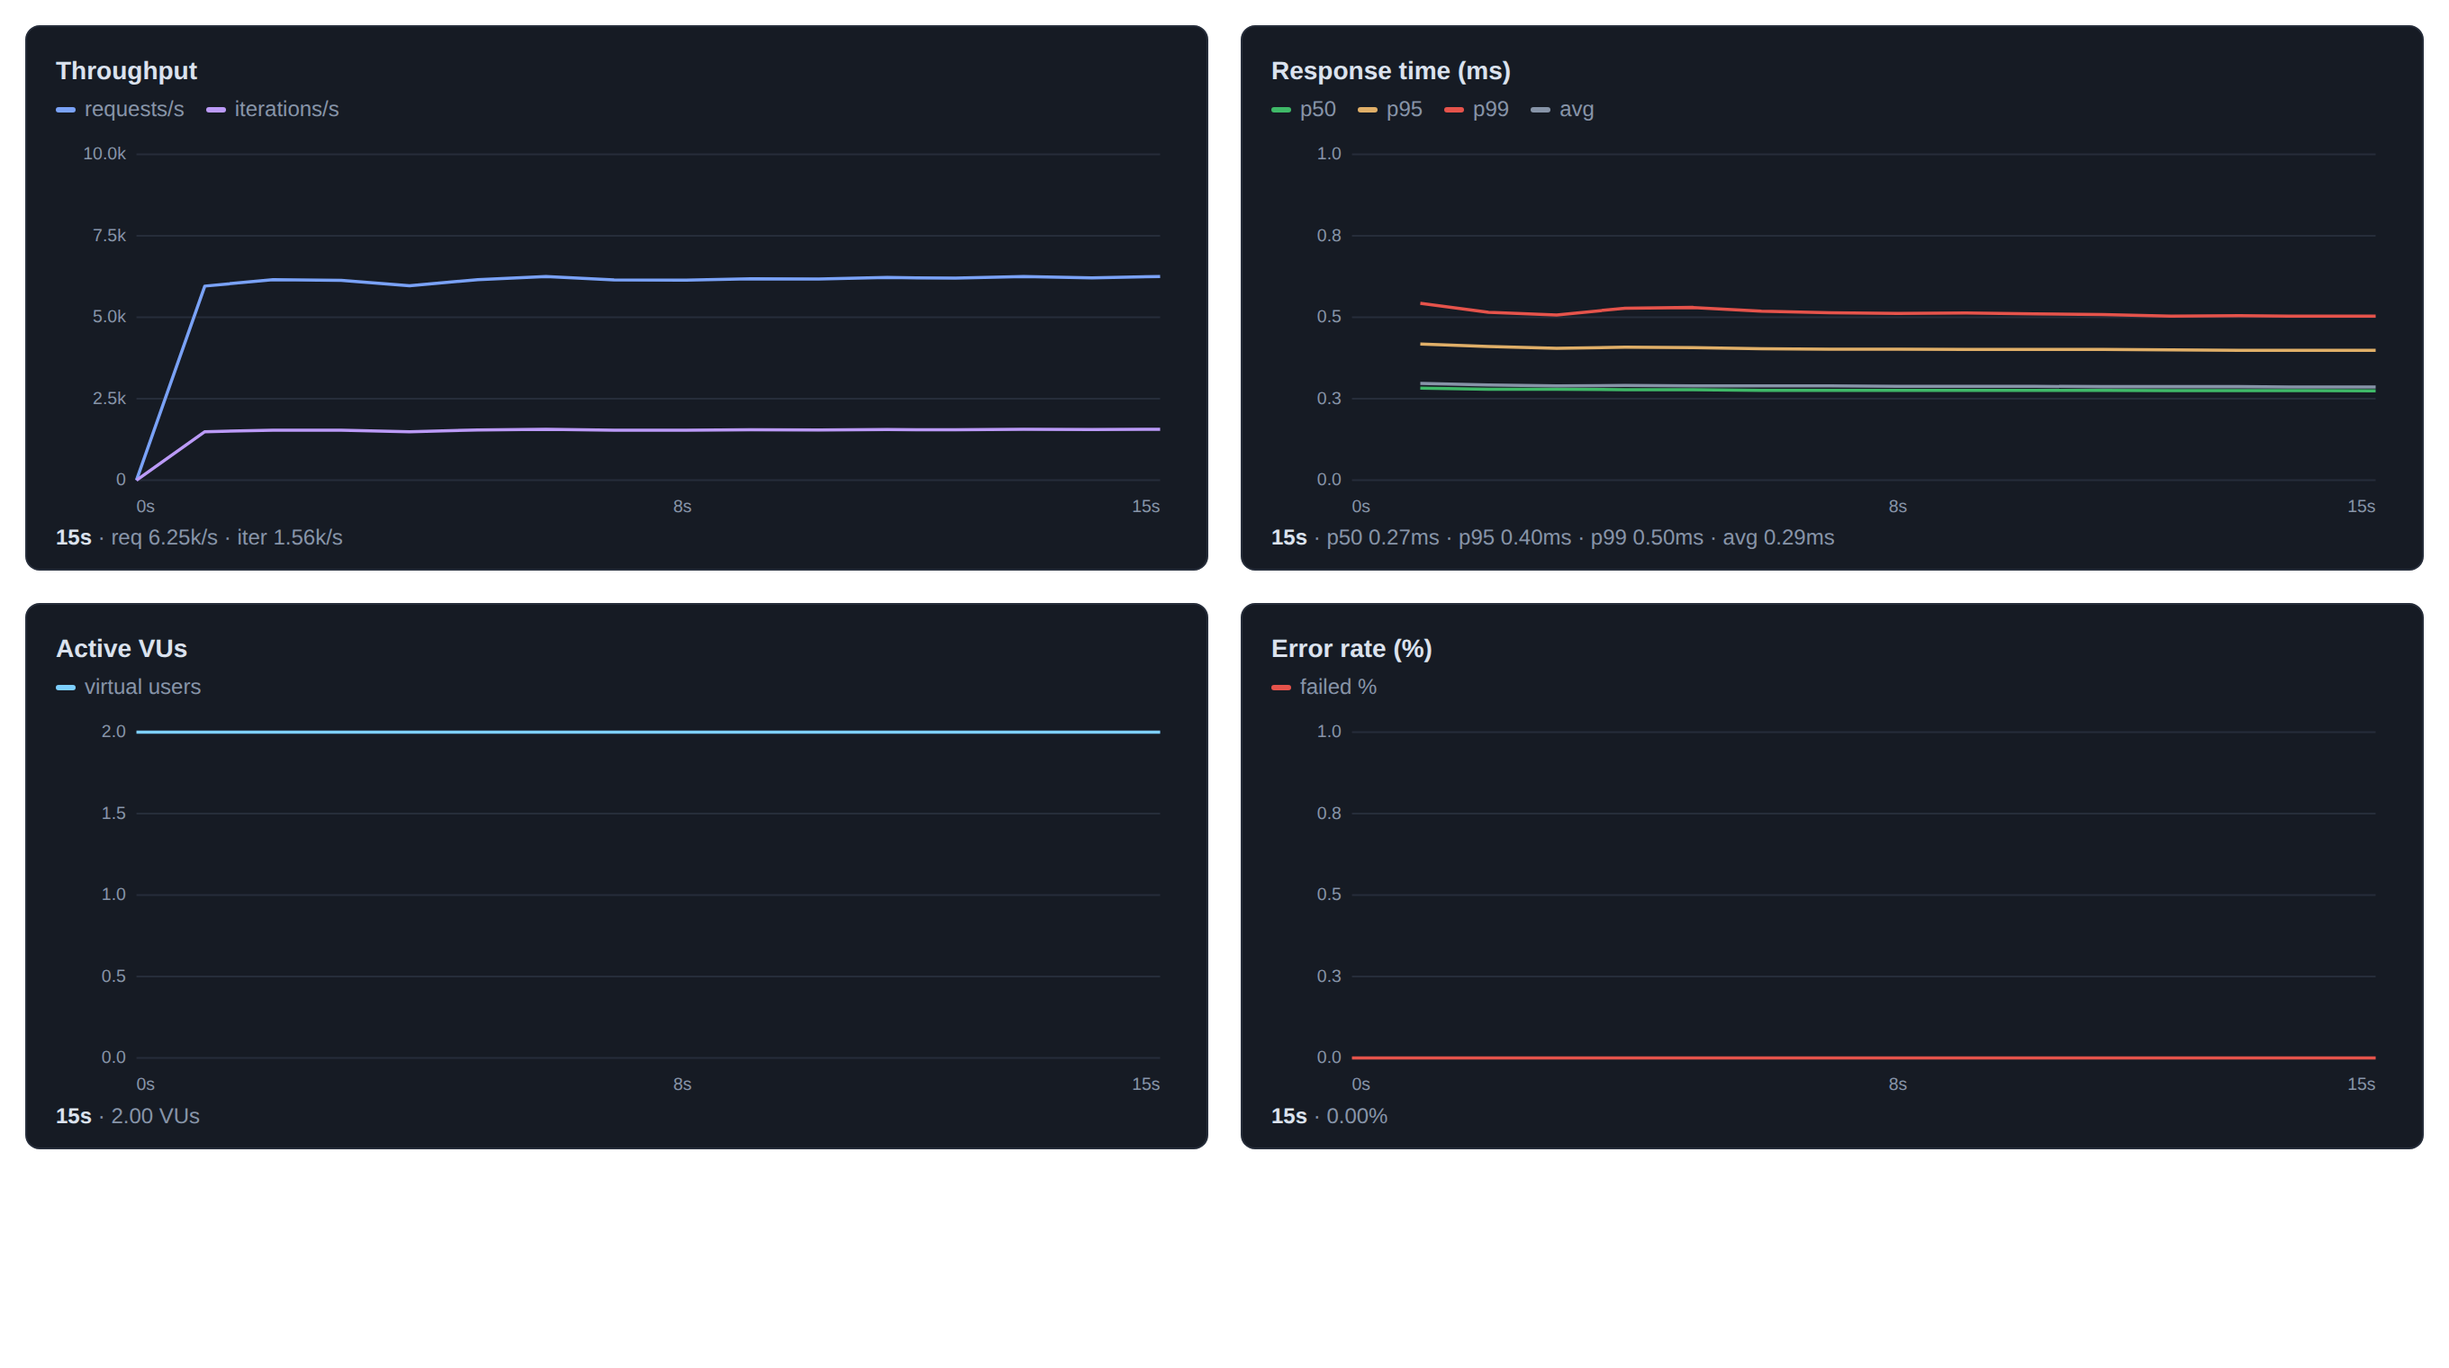
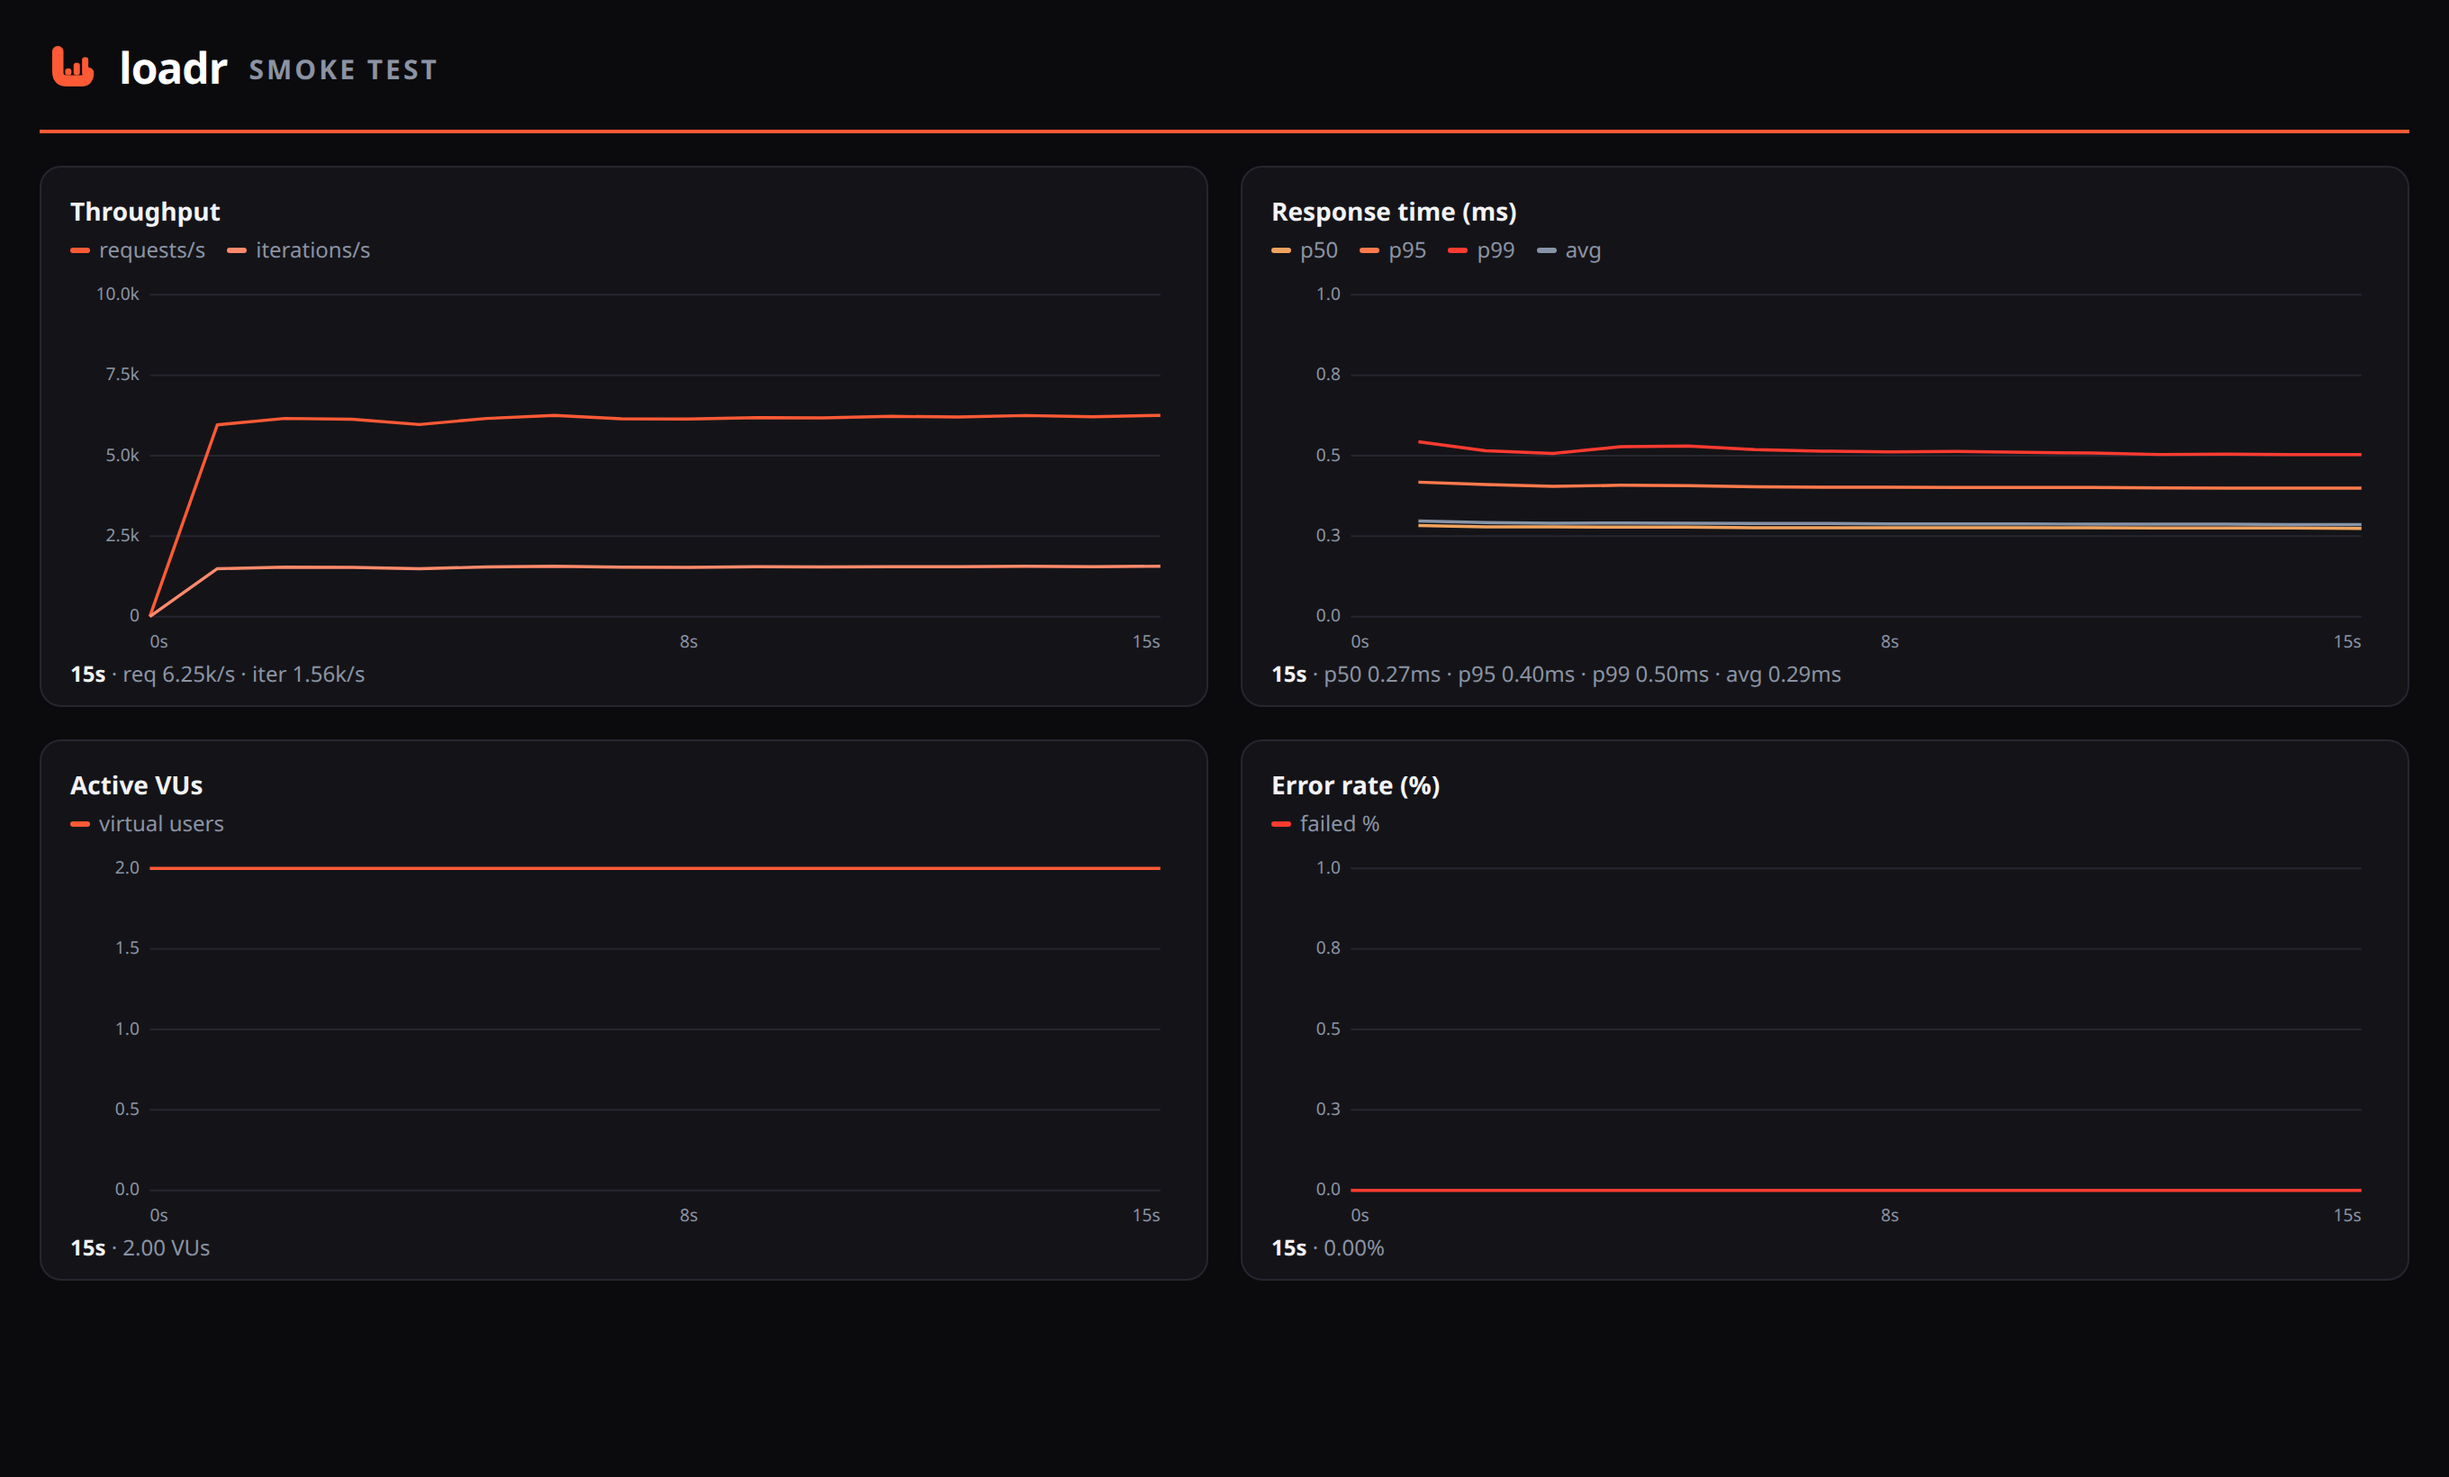
docs: loadr-brand the graphs + drawio pipeline diagram + explain the stress knee (#3)
* docs: loadr-brand the graphs + replace ASCII pipeline with a drawio PNG

- Re-theme all 8 chart panels to loadr.io branding: dark canvas, ember
  (#ff5a36) series + legend swatches, and a logo/wordmark header per image.
- Replace the ASCII pipeline diagram with a loadr-themed diagram authored in
  drawio (docs/diagrams/pipeline.drawio) and exported to PNG via the drawio CLI
  — build → 8 parallel tests (each with Postgres + Redis) → aggregate report.
- README: explain the stress test's flat-throughput knee (Little's Law) so the
  graph isn't misread as a bug.

Claude-Session: https://claude.ai/code/session_01QDBfsiBMBCbrb9jtShZ8ua

* docs: per-chart "reading the chart" notes + GitHub Actions throughput caveat

- Add a short "Reading the chart" explainer next to every test graph so the
  shape has context for readers.
- Add a "A note on the numbers (GitHub Actions limits)" section: the load
  generator, app, Postgres and Redis all share one ~2-vCPU runner, so absolute
  throughput/latency are runner artifacts (the box is often the bottleneck, not
  the app). Shapes, relative behaviour and threshold pass/fail are what's valid.

Claude-Session: https://claude.ai/code/session_01QDBfsiBMBCbrb9jtShZ8ua

---------

Changed region(s): [[0.0, 0.0, 1.0, 1.0], [0.5938, 0.2164, 0.875, 0.2474]]

diff --git a/README.md b/README.md
@@ -26,21 +26,11 @@ It ships:
 
 ## The pipeline
 
-```
-        ┌─────────┐
-        │  build  │   compile the API once, share the binary
-        └────┬────┘
-             │
-   ┌─────┬─────┬─────┬─────┬─────┬─────┬─────┐
-   ▼     ▼     ▼     ▼     ▼     ▼     ▼     ▼
- smoke load stress spike arrival soak journey impulse   ← run in parallel, each with
-   │     │     │     │   -rate   │     │     │             its own Postgres + Redis
-   └─────┴─────┴──┬──┴─────┴─────┴─────┴─────┘
-                  ▼
-             ┌─────────┐
-             │ report  │   one table, all results, on the run summary
-             └─────────┘
-```
+![loadr performance pipeline](docs/diagrams/pipeline.png)
+
+A single `build` job compiles the API once; the `perf` matrix then runs all
+eight test types **in parallel** (each on its own runner with its own Postgres +
+Redis), and a final `report` job stitches the summaries together.
 
 Each perf job spins up `postgres:16` + `redis:7` **service containers**, starts
 the API (it migrates + seeds on boot), then installs and runs loadr via the
@@ -77,12 +67,21 @@ bother running for real. Flat, minimal load.
 
 ![smoke](docs/graphs/smoke.png)
 
+> **Reading the chart:** a flat trickle — Active VUs pinned at 2, throughput and
+> latency sitting on the floor. There's deliberately no load profile here; a
+> green run is the whole signal.
+
 ### 🔹 load — steady expected traffic
 `constant-vus`, 25 VUs, 45s, with human-like think time. The "does it hold up at
 normal load" baseline — a flat plateau of concurrency browsing the catalog
 (list → detail → search). Asserts p95/p99 latency budgets.
 
 ![load](docs/graphs/load.png)
+
+> **Reading the chart:** a steady plateau — Active VUs flat at 25, throughput
+> flat, and the latency percentiles holding a low, level band. This is what
+> "comfortable, expected traffic" looks like; you're checking the band stays
+> under budget.
 
 ### 🔹 stress — find the knee
 `ramping-vus`, 0 → 40 → 80 → 0. A triangular ramp that pushes concurrency past
@@ -91,6 +90,15 @@ latency turns up. `abort_on_fail` kills the run if errors run away.
 
 ![stress](docs/graphs/stress.png)
 
+> **Why does throughput stay flat while VUs and latency climb?** That flat line
+> *is* the result. The server saturates early (~10 VUs maxes the CPU and the
+> 20-connection DB pool), so it can't *complete* requests any faster — throughput
+> pins at its ceiling (~2.2k req/s here). Every extra VU past that knee doesn't
+> add throughput, it just joins the queue, so response time rises instead. It's
+> Little's Law — `concurrency = throughput × latency`: with throughput capped,
+> driving concurrency up forces latency up. Finding that knee is the point of a
+> stress test.
+
 ### 🔹 spike — a sudden surge
 `ramping-arrival-rate`, 20 → **200** → 20 orders/sec (open model). A calm
 baseline, a sharp 10× spike of order writes, then recovery. The throughput chart
@@ -98,12 +106,22 @@ shows the spike directly; latency balloons at the peak and should settle after.
 
 ![spike](docs/graphs/spike.png)
 
+> **Reading the chart:** watch **Throughput** — a calm ~20/s baseline, a sharp
+> jump to ~200/s, a sustained peak, then a drop back and recovery. Response-time
+> p99 lifts during the surge and settles afterwards. (Active VUs is flat because
+> this is an open model — VUs are pre-allocated; the *arrival rate* is what
+> spikes.)
+
 ### 🔹 arrival-rate — throughput & saturation
 `constant-arrival-rate`, 150 req/s, 45s (open model). Pins a fixed request rate
 independent of response time, so saturation shows up as `dropped_iterations` and
 rising p99 rather than as fewer requests. A flat throughput line.
 
 ![arrival-rate](docs/graphs/arrival-rate.png)
+
+> **Reading the chart:** **Throughput** holds a flat line at the target 150/s
+> regardless of latency — that's the open model. Saturation would show up as a
+> rising p99 and `dropped_iterations`, not as a sagging throughput line.
 
 ### 🔹 soak — leaks & drift (mini soak)
 `constant-vus`, 10 VUs, **5 minutes**. Moderate steady load held long enough to
@@ -113,6 +131,10 @@ this for hours; 5 min keeps CI honest.)
 
 ![soak](docs/graphs/soak.png)
 
+> **Reading the chart:** the point is that nothing moves — throughput and latency
+> stay level across the full 5 minutes. An upward drift in latency, a sawtooth,
+> or a creeping error rate would betray a leak or pool exhaustion; here it's flat.
+
 ### 🔹 journey — a realistic user flow
 `constant-vus`, 8 VUs. An end-to-end authenticated journey that chains requests:
 login → **extract** bearer token → browse → **correlate** a sku → create a
@@ -121,6 +143,11 @@ credentials. This one is about features, not curve shape: feeders, extraction
 and correlation.
 
 ![journey](docs/graphs/journey.png)
+
+> **Reading the chart:** concurrency is flat (8 VUs), so the curves are steady —
+> this test is about the chained steps (login → browse → create → order →
+> verify), not the shape. Throughput counts whole multi-request iterations, so
+> it reads lower than the single-hit tests.
 
 ### 🔹 impulse — cold-start under load
 `constant-vus`, **40 VUs from t=0, no ramp, cold cache**. The opposite of a ramp.
@@ -133,7 +160,37 @@ step-change, rather than a gentle climb, is the impulse signature.
 
 ![impulse](docs/graphs/impulse.png)
 
+> **Reading the chart:** the cold-start signature. **Throughput** is pinned near
+> zero for the first few seconds while 40 cold VUs stampede the heavy query, then
+> surges the instant the cache warms. **Active VUs** jump straight to 40 (no
+> ramp), and **Response time** spikes at t=0 then collapses as hits start serving
+> from Redis.
+
 ---
+
+## A note on the numbers (GitHub Actions limits)
+
+Treat the **absolute throughput and latency figures as artifacts of the runner,
+not the app's real capacity.** A GitHub-hosted runner is a small, shared,
+virtualised box (≈2 vCPU). In every perf job, the **load generator (loadr), the
+API, Postgres _and_ Redis all run on that same 2-core runner** and fight for the
+same cores — so:
+
+- **loadr's own load generation steals CPU from the server.** Past a low
+  concurrency the runner itself is the bottleneck, not the application. A high
+  p99 can mean the loadr client was starved, not that the server was slow.
+- **Throughput plateaus early and low.** The ~2k req/s you see in `stress`, or
+  the impulse surge numbers, are where *this box* tops out, not where the code
+  would on real, separate hardware.
+- **Numbers vary run-to-run** with noisy neighbours on the shared host.
+
+What *is* meaningful here: the **shapes** (ramp, spike, cold-start), the
+**relative** behaviour between phases, and whether the **thresholds pass** — i.e.
+catching regressions in CI. For real capacity planning you'd run loadr from a
+**separate machine** (or a distributed loadr run) against a production-sized
+target, with the database and cache on their own hosts. The graphs in this README
+were rendered from local runs for the same reason — cleaner shapes — and still
+carry the same caveat about absolute values.
 
 ## The API
 
